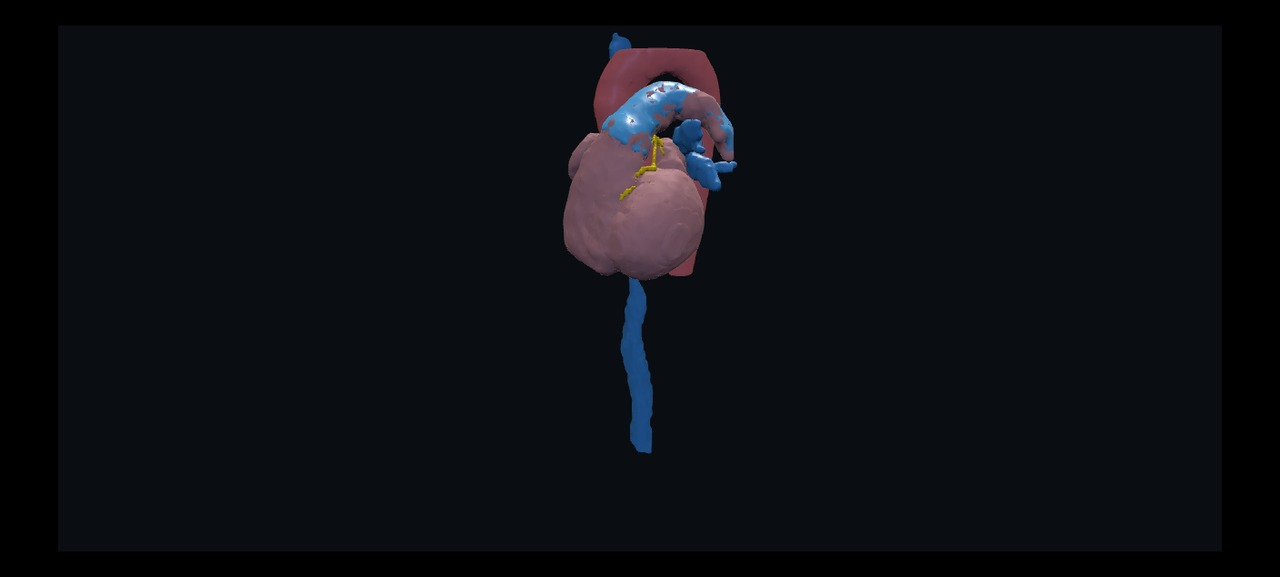
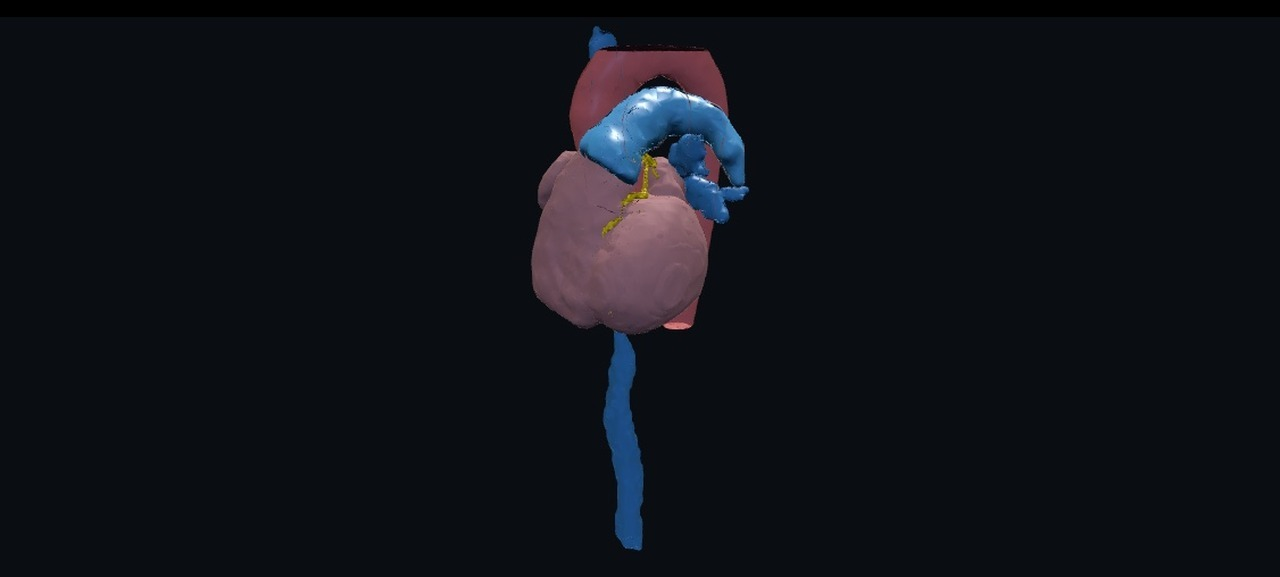
Viewer: depth-rank offset ladder vs interpenetration z-fight; final heart-look heroes

Changed region(s): [[0.4062, 0.0312, 0.5938, 0.9671]]

diff --git a/viewer/src/main.js b/viewer/src/main.js
@@ -229,17 +229,51 @@ function updateClipPlane() {
   clipPlane.constant = -(dMin + (dMax - dMin) * clipOffset01);
 }
 
+// Mirror of pipeline structures.STRUCTURE_GROUPS great_vessels membership.
+const GREAT_VESSEL_IDS = new Set([
+  'aorta',
+  'pulmonary_artery',
+  'pulmonary_veins',
+  'vena_cava_superior',
+  'vena_cava_inferior',
+]);
+
 /** Shared clipping plane: capture the normal, sweep range and every material. */
 function initClipping(root) {
   // The normal is the default camera view direction (setModel just framed it).
   clipPlane.normal.copy(stage.controls.target).sub(stage.camera.position).normalize();
 
   clipMaterials.length = 0;
+  // Interpenetrating masks (vessel roots through the heart envelope, coronaries
+  // lying on the epicardium) are coincident within a depth unit and z-fight as
+  // color flakes. Nudge each tier toward the camera so the anatomically outer
+  // surface wins cleanly: coronaries > pulmonary artery > other great vessels
+  // > everything else.
+  const depthRankOf = (name) => {
+    if (name.startsWith('coronary')) return -3;
+    // The PA trunk crosses anterior to the aortic arch in these masks and the
+    // two interpenetrate; it must win their shared-rank fight explicitly.
+    if (name === 'pulmonary_artery') return -2;
+    if (GREAT_VESSEL_IDS.has(name)) return -1;
+    return 0;
+  };
   root.traverse((node) => {
     const material = node.material;
     if (!material) return;
-    if (Array.isArray(material)) clipMaterials.push(...material);
-    else clipMaterials.push(material);
+    const rank = depthRankOf(node.name || '');
+    const mats = Array.isArray(material) ? material : [material];
+    clipMaterials.push(...mats);
+    if (rank !== 0) {
+      for (const mat of mats) {
+        mat.polygonOffset = true;
+        // ~millimeter-equivalent steps at this camera's depth precision:
+        // raw depth units are sub-micron here and cannot separate the ~1mm
+        // interpenetration of adjacent masks.
+        mat.polygonOffsetFactor = rank * 8;
+        mat.polygonOffsetUnits = rank * 2048;
+        mat.needsUpdate = true;
+      }
+    }
   });
 
   clipCorners.length = 0;
